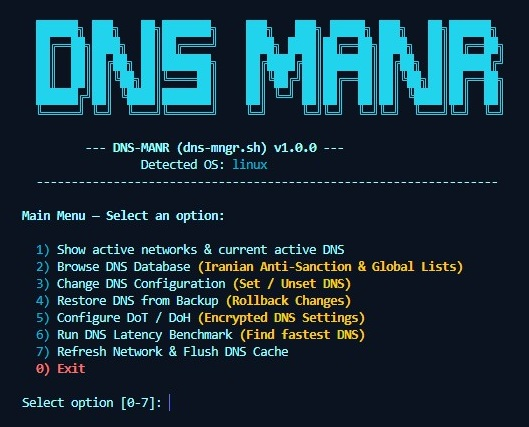
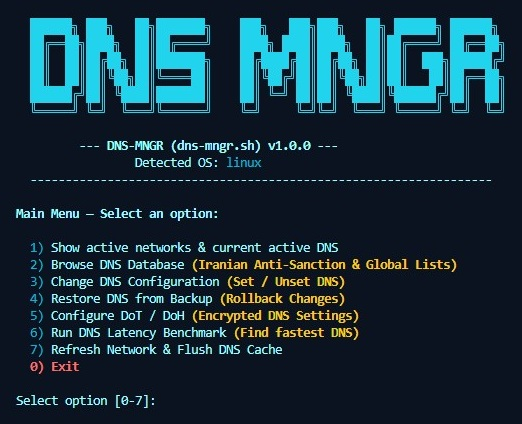
Review MNGR

diff --git a/README.md b/README.md
@@ -1,4 +1,4 @@
-# 🌐 DNS-MANR
+# 🌐 DNS-MNGR
 
 > **A lightweight, interactive cross-platform CLI tool for managing, benchmarking, and securing DNS settings across Linux, macOS, and Windows.**
 
@@ -14,7 +14,7 @@
 
 ---
 
-**DNS-MANR** simplifies cross-platform DNS selection, latency benchmarking, and automated configuration. It offers specialized anti-sanction/gaming DNS options for Iranian users alongside top-tier global security providers, complete with automated backup/restore functionality and DoT/DoH setup support.
+**DNS-MNGR** simplifies cross-platform DNS selection, latency benchmarking, and automated configuration. It offers specialized anti-sanction/gaming DNS options for Iranian users alongside top-tier global security providers, complete with automated backup/restore functionality and DoT/DoH setup support.
 
 ---
 
@@ -46,15 +46,15 @@ dns-mngr.sh    # Standalone, zero-dependency Bash script for complete cross-plat
 #### Option 1: One-Line Remote Execution (Recommended)
 
 ```bash
-curl -sSL https://raw.githubusercontent.com/AlirezaNoorizadeh/DNS-MANR/main/dns-mngr.sh | sudo bash
+curl -sSL https://raw.githubusercontent.com/AlirezaNoorizadeh/DNS-MNGR/main/dns-mngr.sh | sudo bash
 
 ```
 
 #### Option 2: Clone & Execute Directly
 
 ```bash
-git clone [https://github.com/AlirezaNoorizadeh/DNS-MANR.git](https://github.com/AlirezaNoorizadeh/DNS-MANR.git)
-cd DNS-MANR
+git clone [https://github.com/AlirezaNoorizadeh/DNS-MNGR.git](https://github.com/AlirezaNoorizadeh/DNS-MNGR.git)
+cd DNS-MNGR
 chmod +x dns-mngr.sh
 sudo ./dns-mngr.sh
 
